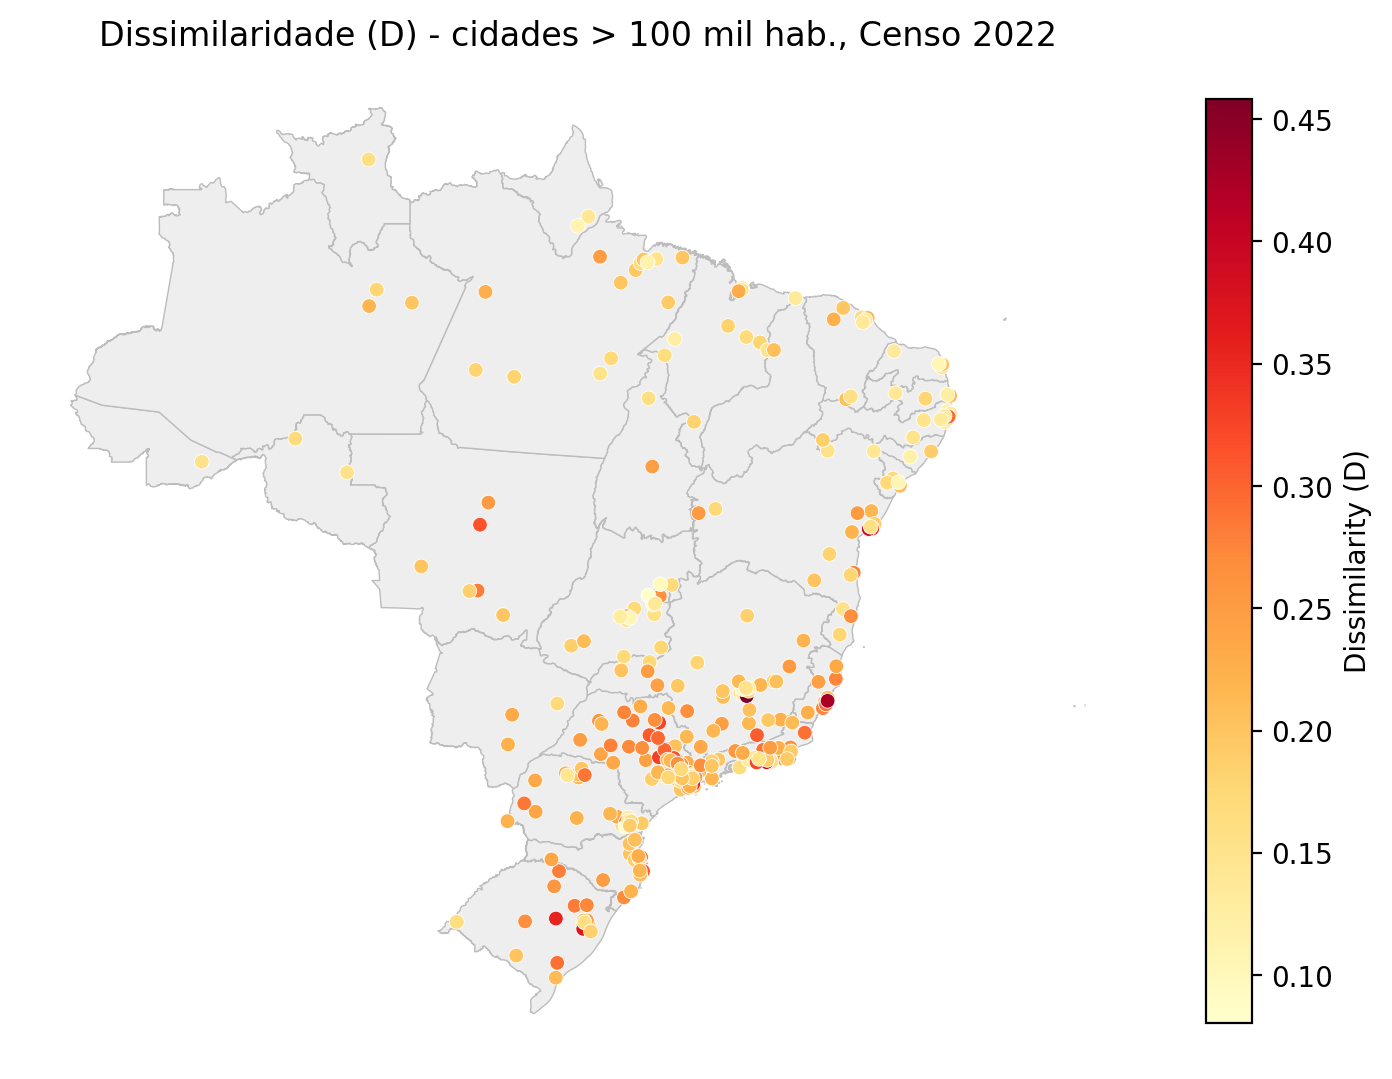
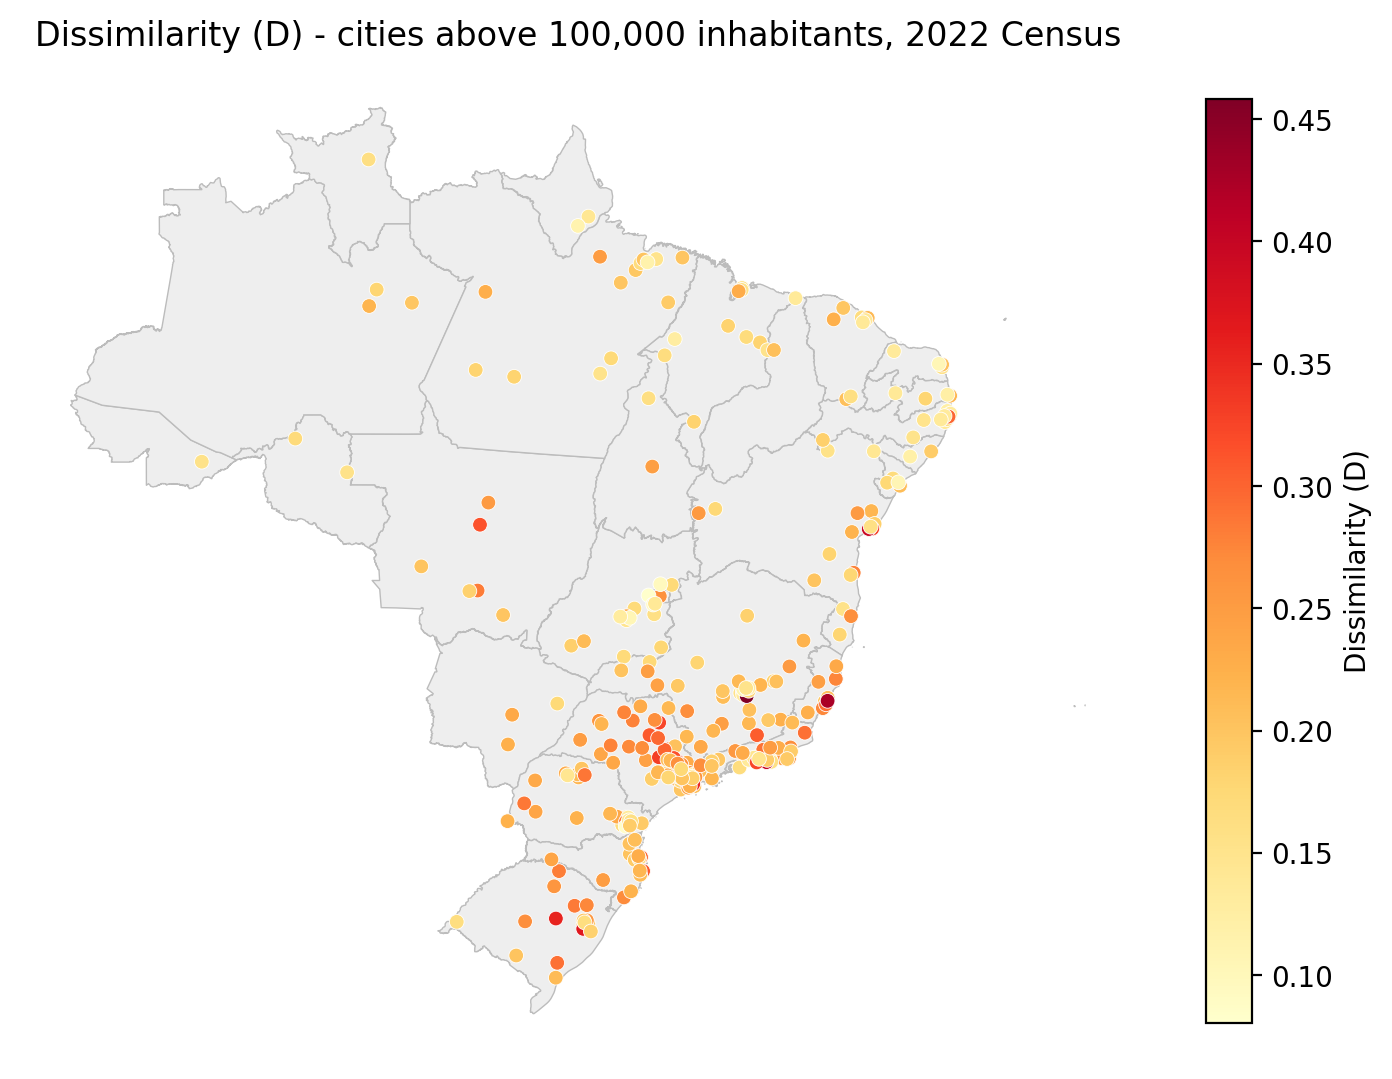
paper: English table captions, headers, region names and map titles

Changed region(s): [[0.0309, 0.0, 0.8032, 0.0612]]

diff --git a/scripts/figures.py b/scripts/figures.py
@@ -28,20 +28,20 @@ MEASURES = ["Dissim", "SpatialDissim", "Gini", "Entropy", "Isolation",
             "DistanceDecayIsolation", "RelativeConcentration",
             "RelativeCentralization", "RelativeClustering"]
 
-# Two-digit IBGE UF code -> macro-region. Covers all 27 units.
+# Two-digit IBGE UF code -> macro-region (English names, matching the paper body).
 REGION_BY_UF = {
-    "11": "Norte", "12": "Norte", "13": "Norte", "14": "Norte", "15": "Norte",
-    "16": "Norte", "17": "Norte",
-    "21": "Nordeste", "22": "Nordeste", "23": "Nordeste", "24": "Nordeste",
-    "25": "Nordeste", "26": "Nordeste", "27": "Nordeste", "28": "Nordeste",
-    "29": "Nordeste",
-    "31": "Sudeste", "32": "Sudeste", "33": "Sudeste", "35": "Sudeste",
-    "41": "Sul", "42": "Sul", "43": "Sul",
-    "50": "Centro-Oeste", "51": "Centro-Oeste", "52": "Centro-Oeste",
-    "53": "Centro-Oeste",
+    "11": "North", "12": "North", "13": "North", "14": "North", "15": "North",
+    "16": "North", "17": "North",
+    "21": "Northeast", "22": "Northeast", "23": "Northeast", "24": "Northeast",
+    "25": "Northeast", "26": "Northeast", "27": "Northeast", "28": "Northeast",
+    "29": "Northeast",
+    "31": "Southeast", "32": "Southeast", "33": "Southeast", "35": "Southeast",
+    "41": "South", "42": "South", "43": "South",
+    "50": "Centre-West", "51": "Centre-West", "52": "Centre-West",
+    "53": "Centre-West",
 }
 
-REGION_ORDER = ["Norte", "Nordeste", "Centro-Oeste", "Sudeste", "Sul"]
+REGION_ORDER = ["North", "Northeast", "Centre-West", "Southeast", "South"]
 
 
 def load() -> pd.DataFrame:
@@ -106,7 +106,7 @@ def table1() -> None:
         "ppp_min": [df["ppp"].min()],
         "ppp_med": [df["ppp"].median()],
         "ppp_max": [df["ppp"].max()],
-    }, index=["Brasil"])
+    }, index=["Brazil"])
 
     out = pd.concat([g, total])
     out["cities"] = out["cities"].astype(int)
@@ -116,20 +116,22 @@ def table1() -> None:
 
     # LaTeX-safe display labels (no bare _ % & # so the file \input-s cleanly).
     disp = out.rename(columns={
-        "cities": "Cidades",
-        "tracts_min": "Setores (mín.)",
-        "tracts_med": "Setores (mediana)",
-        "tracts_max": "Setores (máx.)",
-        "ppp_min": "PPP (mín.)",
-        "ppp_med": "PPP (mediana)",
-        "ppp_max": "PPP (máx.)",
+        "cities": "Cities",
+        "tracts_min": "Tracts (min.)",
+        "tracts_med": "Tracts (median)",
+        "tracts_max": "Tracts (max.)",
+        "ppp_min": "Minority share (min.)",
+        "ppp_med": "Minority share (median)",
+        "ppp_max": "Minority share (max.)",
     })
-    # Do not emit the pandas index-name row (would print "Região & & ... \\").
+    # Do not emit the pandas index-name row (would print "index & & ... \\").
     disp.index.name = None
 
     TABLES.mkdir(parents=True, exist_ok=True)
     latex = disp.to_latex(
-        caption="Cidades analisadas por macrorregião (Censo 2022).",
+        caption="Cities analysed by macro-region (2022 Census). "
+                "Minority share is the tract preta and parda population "
+                "as a fraction of the total.",
         label="tab:descriptive",
         float_format="%.3f",
     )
@@ -221,15 +223,15 @@ def fig_distributions() -> None:
 
     # LaTeX-safe display labels (no bare _ % & # so the file \input-s cleanly).
     disp = stats.rename(columns={
-        "mean": "Média", "std": "Desvio-padrão",
-        "25%": "P25", "50%": "Mediana", "75%": "P75",
-        "min": "Mínimo", "max": "Máximo",
+        "mean": "Mean", "std": "SD",
+        "25%": "P25", "50%": "Median", "75%": "P75",
+        "min": "Min.", "max": "Max.",
     })
 
     TABLES.mkdir(parents=True, exist_ok=True)
     latex = disp.to_latex(
-        caption="Estatísticas descritivas dos nove índices de segregação "
-                "(todas as 319 cidades, Censo 2022).",
+        caption="Descriptive statistics of the nine segregation indices "
+                "(all 319 cities, 2022 Census).",
         label="tab:summary",
         float_format="%.3f",
     )
@@ -329,12 +331,12 @@ def fig_correlation() -> None:
 
     TABLES.mkdir(parents=True, exist_ok=True)
     latex = disp.to_latex(
-        caption="Correlação de Spearman entre os nove índices de segregação "
-                "(nível cidade, Censo 2022). Colunas: "
-                "D=Dissimilaridade, SD=Dissimilaridade espacial, G=Gini, "
-                "H=Entropia, Iso=Isolamento, DDI=Isolamento com decaimento, "
-                "RCo=Concentração relativa, RCe=Centralização relativa, "
-                "RCl=Agrupamento relativo.",
+        caption="Spearman rank correlation between the nine segregation "
+                "indices (city level, 2022 Census). Columns: "
+                "D=Dissimilarity, SD=Spatial Dissimilarity, G=Gini, "
+                "H=Entropy, Iso=Isolation, DDI=Distance-Decay Isolation, "
+                "RCo=Relative Concentration, RCe=Relative Centralization, "
+                "RCl=Relative Clustering.",
         label="tab:corr",
         float_format="%.2f",
     )
@@ -421,13 +423,13 @@ def fig_rankings() -> None:
 
     TABLES.mkdir(parents=True, exist_ok=True)
     latex = disp.to_latex(
-        caption="Correlação de postos de Kendall (tau) entre os "
-                "ordenamentos de cidades pelos nove índices de segregação "
-                "(nível cidade, Censo 2022). Colunas: "
-                "D=Dissimilaridade, SD=Dissimilaridade espacial, G=Gini, "
-                "H=Entropia, Iso=Isolamento, DDI=Isolamento com decaimento, "
-                "RCo=Concentração relativa, RCe=Centralização relativa, "
-                "RCl=Agrupamento relativo.",
+        caption="Kendall rank correlation (tau) between the city rankings "
+                "on the nine segregation indices (city level, 2022 Census). "
+                "Columns: "
+                "D=Dissimilarity, SD=Spatial Dissimilarity, G=Gini, "
+                "H=Entropy, Iso=Isolation, DDI=Distance-Decay Isolation, "
+                "RCo=Relative Concentration, RCe=Relative Centralization, "
+                "RCl=Relative Clustering.",
         label="tab:rankcorr",
         float_format="%.2f",
     )
@@ -456,7 +458,7 @@ def fig_regional() -> None:
     """§5.4 - regional patterns: distribution of each measure by macro-region.
 
     3x3 grid, one box plot per measure with the five macro-regions on the x
-    axis (Norte, Nordeste, Centro-Oeste, Sudeste, Sul). Also writes the
+    axis (North, Northeast, Centre-West, Southeast, South). Also writes the
     region x nine-measure median table (``table4_regional.tex``), used for the
     Sousa Filho et al. (2023) comparison: do South/Southeast lead on every
     dimension, or only on the evenness measures?
@@ -466,8 +468,8 @@ def fig_regional() -> None:
     import matplotlib.pyplot as plt
 
     df = load()
-    short = {"Norte": "Norte", "Nordeste": "NE", "Centro-Oeste": "CO",
-             "Sudeste": "SE", "Sul": "Sul"}
+    short = {"North": "N", "Northeast": "NE", "Centre-West": "CW",
+             "Southeast": "SE", "South": "S"}
 
     fig, axes = plt.subplots(3, 3, figsize=(14, 12))
     for ax, m in zip(axes.ravel(), MEASURES):
@@ -492,12 +494,12 @@ def fig_regional() -> None:
 
     TABLES.mkdir(parents=True, exist_ok=True)
     latex = disp.to_latex(
-        caption="Mediana de cada índice de segregação por macrorregião "
-                "(nível cidade, Censo 2022). Colunas: "
-                "D=Dissimilaridade, SD=Dissimilaridade espacial, G=Gini, "
-                "H=Entropia, Iso=Isolamento, DDI=Isolamento com decaimento, "
-                "RCo=Concentração relativa, RCe=Centralização relativa, "
-                "RCl=Agrupamento relativo.",
+        caption="Median of each segregation index by macro-region "
+                "(city level, 2022 Census). Columns: "
+                "D=Dissimilarity, SD=Spatial Dissimilarity, G=Gini, "
+                "H=Entropy, Iso=Isolation, DDI=Distance-Decay Isolation, "
+                "RCo=Relative Concentration, RCe=Relative Centralization, "
+                "RCl=Relative Clustering.",
         label="tab:regional",
         float_format="%.3f",
     )
@@ -590,9 +592,9 @@ CENSUS_CSV = (ROOT / "Agregados_por_setores_cor_ou_raca_BR_csv"
               / "Agregados_por_setores_cor_ou_raca_BR.csv")
 
 MAP_TITLES = {
-    "Dissim": "Dissimilaridade (D) - cidades > 100 mil hab., Censo 2022",
-    "SpatialDissim": "Dissimilaridade espacial - cidades > 100 mil hab., "
-                     "Censo 2022",
+    "Dissim": "Dissimilarity (D) - cities above 100,000 inhabitants, 2022 Census",
+    "SpatialDissim": "Spatial Dissimilarity - cities above 100,000 "
+                     "inhabitants, 2022 Census",
 }
 
 
@@ -676,7 +678,7 @@ def fig_maps() -> None:
         g.plot(column="ppp", ax=ax, cmap="YlOrRd", legend=True,
                vmin=0, vmax=1, edgecolor="face", linewidth=0,
                legend_kwds={"shrink": 0.7,
-                            "label": "proporção preta+parda"})
+                            "label": "preta and parda share"})
         try:
             import contextily as cx
             # Esri's grey canvas: a muted basemap that stays legible under the
@@ -690,8 +692,8 @@ def fig_maps() -> None:
                       f"rendering city maps without a basemap")
             basemap_ok = False
         ax.set_axis_off()
-        ax.set_title(f"{names.get(code, code)} - composição preta+parda por "
-                     f"setor (Censo 2022)", fontsize=11)
+        ax.set_title(f"{names.get(code, code)} - preta and parda share by "
+                     f"tract (2022 Census)", fontsize=11)
         fig.savefig(FIGDIR / f"seg_profile_{code}.png", dpi=250,
                     bbox_inches="tight")
         plt.close(fig)

diff --git a/outputs/tables/table4_regional.tex b/outputs/tables/table4_regional.tex
@@ -1,15 +1,15 @@
 \begin{table}
-\caption{Mediana de cada índice de segregação por macrorregião (nível cidade, Censo 2022). Colunas: D=Dissimilaridade, SD=Dissimilaridade espacial, G=Gini, H=Entropia, Iso=Isolamento, DDI=Isolamento com decaimento, RCo=Concentração relativa, RCe=Centralização relativa, RCl=Agrupamento relativo.}
+\caption{Median of each segregation index by macro-region (city level, 2022 Census). Columns: D=Dissimilarity, SD=Spatial Dissimilarity, G=Gini, H=Entropy, Iso=Isolation, DDI=Distance-Decay Isolation, RCo=Relative Concentration, RCe=Relative Centralization, RCl=Relative Clustering.}
 \label{tab:regional}
 \begin{tabular}{lrrrrrrrrr}
 \toprule
  & D & SD & G & H & Iso & DDI & RCo & RCe & RCl \\
 \midrule
-Norte & 0.176 & 0.108 & 0.256 & 0.041 & 0.790 & 0.832 & -0.649 & -0.061 & -0.058 \\
-Nordeste & 0.171 & 0.106 & 0.246 & 0.034 & 0.741 & 0.764 & -0.303 & -0.045 & -0.065 \\
-Centro-Oeste & 0.177 & 0.098 & 0.252 & 0.037 & 0.644 & 0.682 & -0.144 & -0.068 & 0.015 \\
-Sudeste & 0.219 & 0.128 & 0.306 & 0.055 & 0.537 & 0.529 & -0.063 & -0.082 & 0.093 \\
-Sul & 0.217 & 0.136 & 0.299 & 0.051 & 0.329 & 0.323 & 0.096 & -0.069 & 0.206 \\
+North & 0.176 & 0.108 & 0.256 & 0.041 & 0.790 & 0.832 & -0.649 & -0.061 & -0.058 \\
+Northeast & 0.171 & 0.106 & 0.246 & 0.034 & 0.741 & 0.764 & -0.303 & -0.045 & -0.065 \\
+Centre-West & 0.177 & 0.098 & 0.252 & 0.037 & 0.644 & 0.682 & -0.144 & -0.068 & 0.015 \\
+Southeast & 0.219 & 0.128 & 0.306 & 0.055 & 0.537 & 0.529 & -0.063 & -0.082 & 0.093 \\
+South & 0.217 & 0.136 & 0.299 & 0.051 & 0.329 & 0.323 & 0.096 & -0.069 & 0.206 \\
 \bottomrule
 \end{tabular}
 \end{table}

diff --git a/outputs/tables/table1_descriptive.tex b/outputs/tables/table1_descriptive.tex
@@ -1,17 +1,17 @@
 \begin{table}
-\caption{Cidades analisadas por macrorregião (Censo 2022).}
+\caption{Cities analysed by macro-region (2022 Census). Minority share is the tract preta and parda population as a fraction of the total.}
 \label{tab:descriptive}
 \resizebox{\textwidth}{!}{%
 \begin{tabular}{lrrrrrrr}
 \toprule
- & Cidades & Setores (mín.) & Setores (mediana) & Setores (máx.) & PPP (mín.) & PPP (mediana) & PPP (máx.) \\
+ & Cities & Tracts (min.) & Tracts (median) & Tracts (max.) & Minority share (min.) & Minority share (median) & Minority share (max.) \\
 \midrule
-Norte & 26 & 119 & 331 & 3199 & 0.660 & 0.782 & 0.868 \\
-Nordeste & 64 & 160 & 344 & 4476 & 0.530 & 0.727 & 0.889 \\
-Centro-Oeste & 25 & 161 & 292 & 5264 & 0.451 & 0.619 & 0.759 \\
-Sudeste & 149 & 162 & 428 & 26679 & 0.185 & 0.495 & 0.756 \\
-Sul & 55 & 128 & 336 & 3168 & 0.133 & 0.279 & 0.495 \\
-Brasil & 319 & 119 & 385 & 26679 & 0.133 & 0.554 & 0.889 \\
+North & 26 & 119 & 331 & 3199 & 0.660 & 0.782 & 0.868 \\
+Northeast & 64 & 160 & 344 & 4476 & 0.530 & 0.727 & 0.889 \\
+Centre-West & 25 & 161 & 292 & 5264 & 0.451 & 0.619 & 0.759 \\
+Southeast & 149 & 162 & 428 & 26679 & 0.185 & 0.495 & 0.756 \\
+South & 55 & 128 & 336 & 3168 & 0.133 & 0.279 & 0.495 \\
+Brazil & 319 & 119 & 385 & 26679 & 0.133 & 0.554 & 0.889 \\
 \bottomrule
 \end{tabular}%
 }

diff --git a/outputs/tables/table3_rank_correlation.tex b/outputs/tables/table3_rank_correlation.tex
@@ -1,5 +1,5 @@
 \begin{table}
-\caption{Correlação de postos de Kendall (tau) entre os ordenamentos de cidades pelos nove índices de segregação (nível cidade, Censo 2022). Colunas: D=Dissimilaridade, SD=Dissimilaridade espacial, G=Gini, H=Entropia, Iso=Isolamento, DDI=Isolamento com decaimento, RCo=Concentração relativa, RCe=Centralização relativa, RCl=Agrupamento relativo.}
+\caption{Kendall rank correlation (tau) between the city rankings on the nine segregation indices (city level, 2022 Census). Columns: D=Dissimilarity, SD=Spatial Dissimilarity, G=Gini, H=Entropy, Iso=Isolation, DDI=Distance-Decay Isolation, RCo=Relative Concentration, RCe=Relative Centralization, RCl=Relative Clustering.}
 \label{tab:rankcorr}
 \begin{tabular}{lrrrrrrrrr}
 \toprule

diff --git a/outputs/tables/table2_correlation.tex b/outputs/tables/table2_correlation.tex
@@ -1,5 +1,5 @@
 \begin{table}
-\caption{Correlação de Spearman entre os nove índices de segregação (nível cidade, Censo 2022). Colunas: D=Dissimilaridade, SD=Dissimilaridade espacial, G=Gini, H=Entropia, Iso=Isolamento, DDI=Isolamento com decaimento, RCo=Concentração relativa, RCe=Centralização relativa, RCl=Agrupamento relativo.}
+\caption{Spearman rank correlation between the nine segregation indices (city level, 2022 Census). Columns: D=Dissimilarity, SD=Spatial Dissimilarity, G=Gini, H=Entropy, Iso=Isolation, DDI=Distance-Decay Isolation, RCo=Relative Concentration, RCe=Relative Centralization, RCl=Relative Clustering.}
 \label{tab:corr}
 \begin{tabular}{lrrrrrrrrr}
 \toprule

diff --git a/outputs/tables/table_summary_stats.tex b/outputs/tables/table_summary_stats.tex
@@ -1,10 +1,10 @@
 \begin{table}
-\caption{Estatísticas descritivas dos nove índices de segregação (todas as 319 cidades, Censo 2022).}
+\caption{Descriptive statistics of the nine segregation indices (all 319 cities, 2022 Census).}
 \label{tab:summary}
 \resizebox{\textwidth}{!}{%
 \begin{tabular}{lrrrrrrr}
 \toprule
- & Média & Desvio-padrão & P25 & Mediana & P75 & Mínimo & Máximo \\
+ & Mean & SD & P25 & Median & P75 & Min. & Max. \\
 \midrule
 Dissimilarity (D) & 0.210 & 0.061 & 0.166 & 0.201 & 0.246 & 0.081 & 0.458 \\
 Spatial Dissimilarity & 0.131 & 0.055 & 0.095 & 0.123 & 0.161 & 0.024 & 0.343 \\
